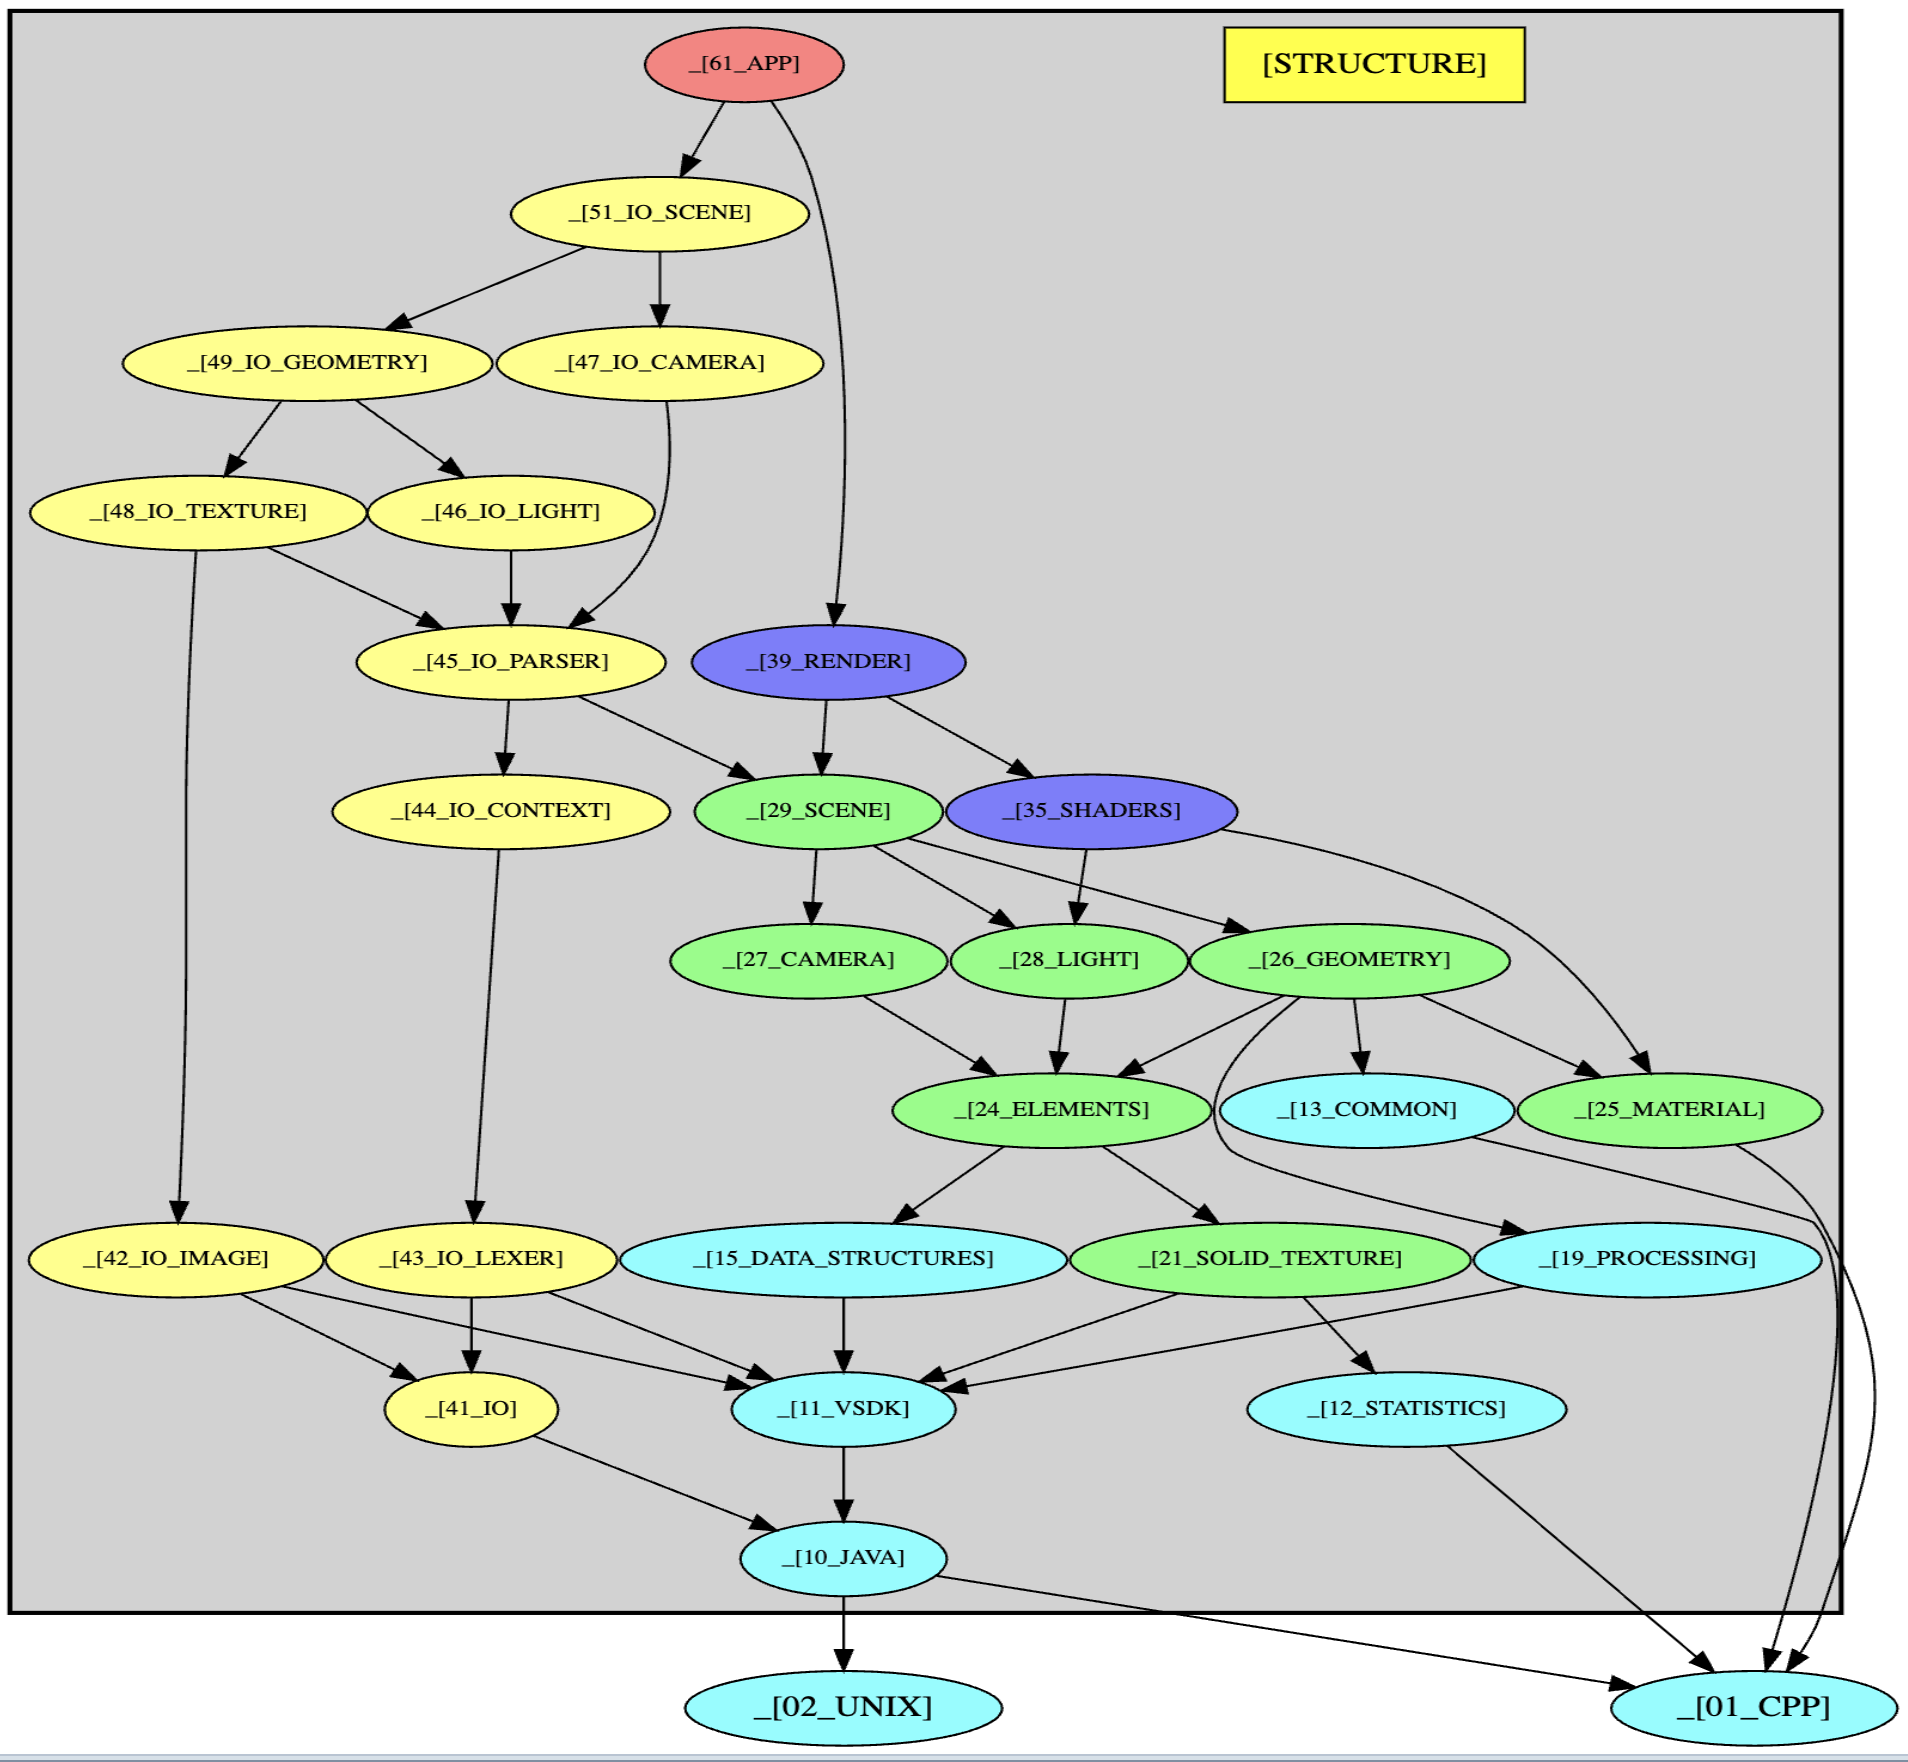
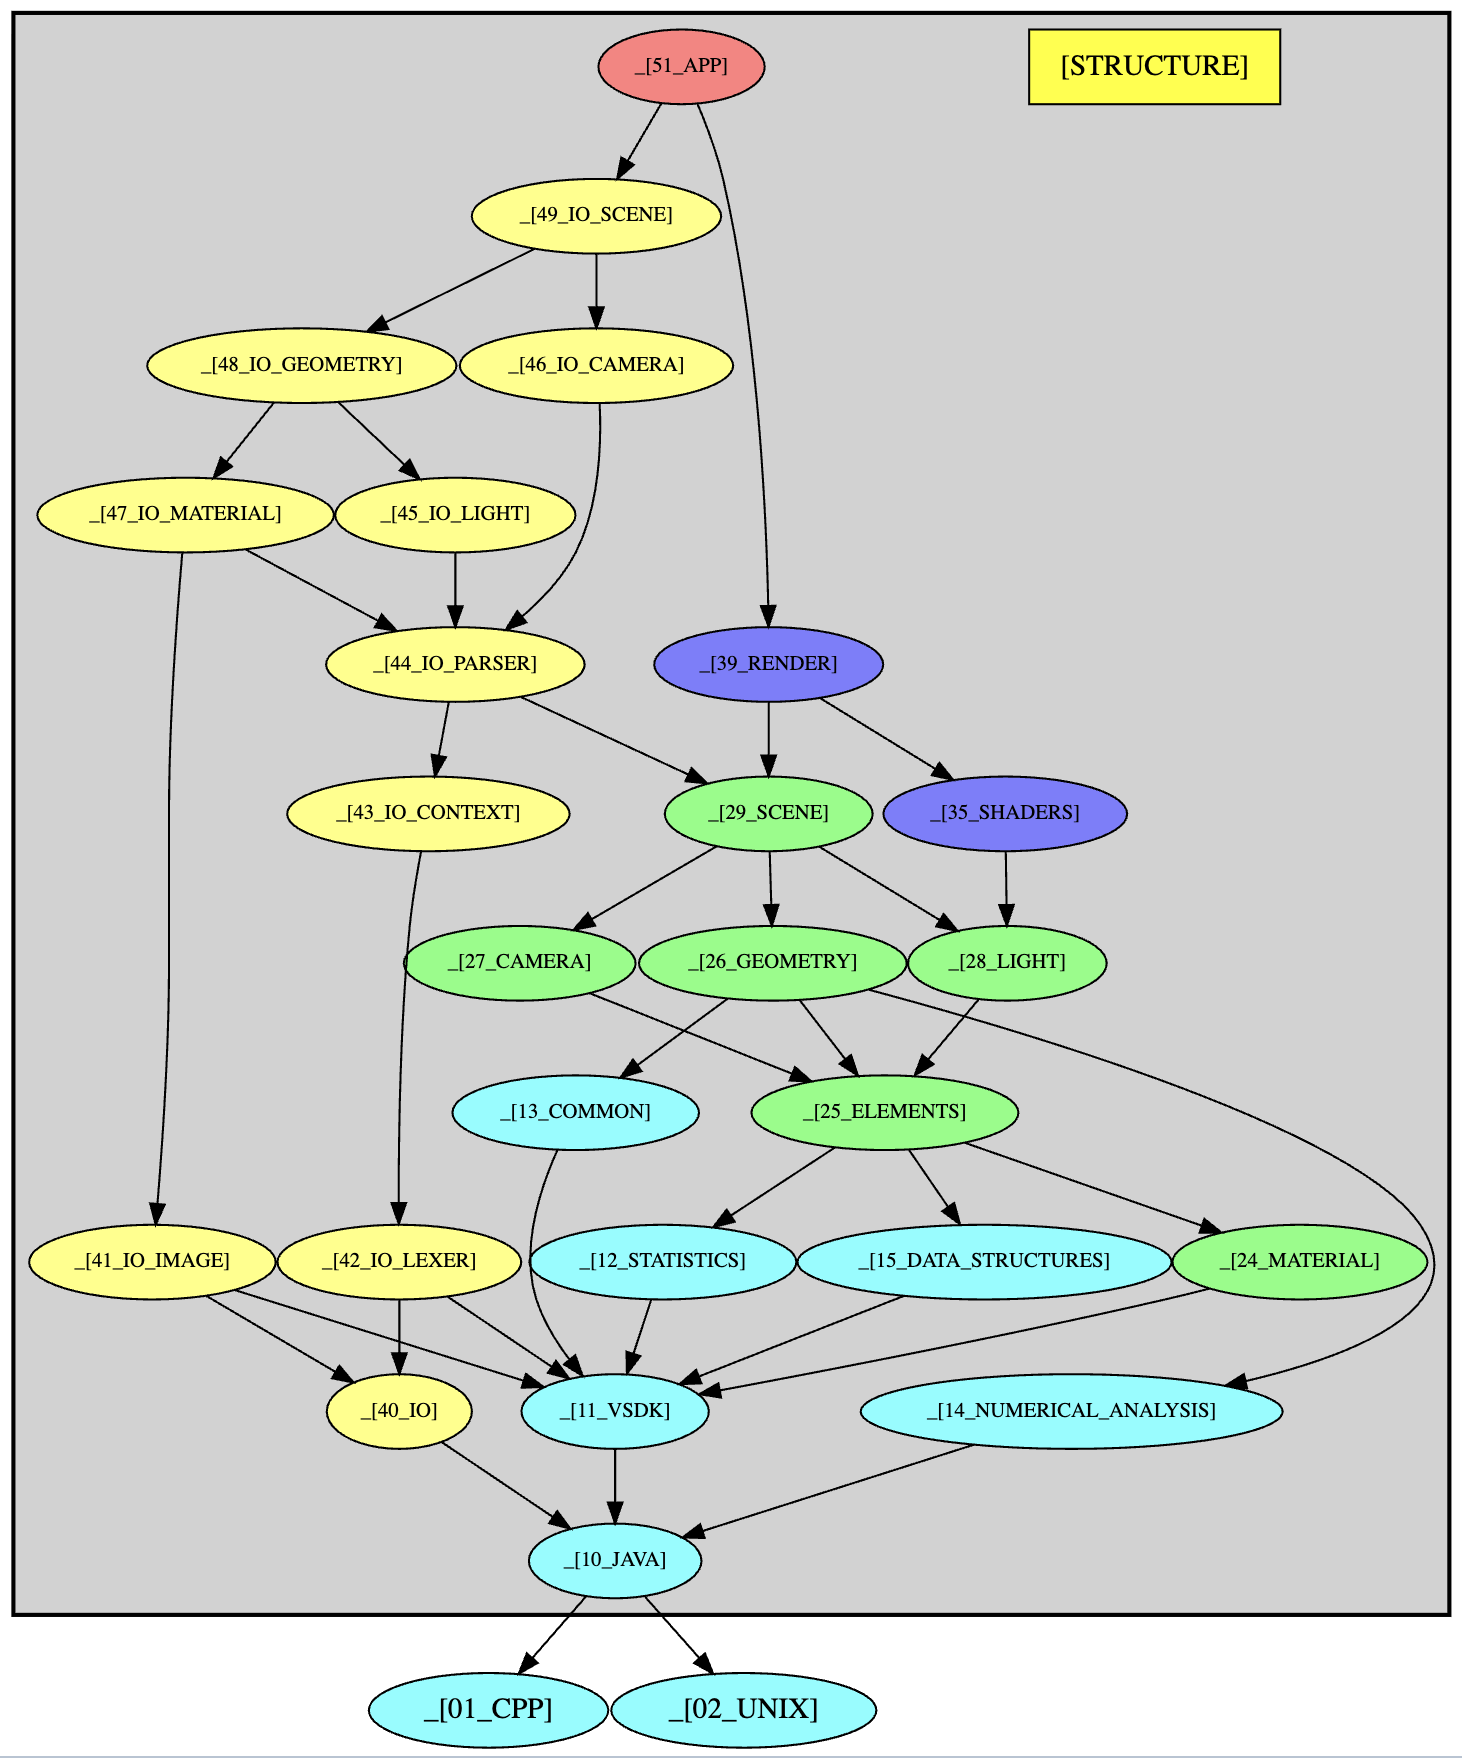
Solid textures moved to vitral library

Changed region(s): [[0.0, 0.0, 1.0, 1.0], [0.6156, 0.0, 0.8926, 0.0614]]

diff --git a/src/render/SolidTextureFixturesFacade.cpp b/src/render/SolidTextureFixturesFacade.cpp
@@ -1,9 +1,9 @@
 #include "render/SolidTextureFixturesFacade.h"
-#include "solidTexture/from2d/ImageTexture.h"
-#include "solidTexture/procedural/ColorTextureFixture.h"
+#include "vsdk/toolkit/media/solidTexture/from2d/ImageTexture.h"
+#include "vsdk/toolkit/media/solidTexture/procedural/ColorTextureFixture.h"
 #include "environment/material/SolidTextureColorNames.h"
-#include "solidTexture/procedural/ProceduralNoise.h"
-#include "solidTexture/TextureUtils.h"
+#include "vsdk/toolkit/media/solidTexture/procedural/ProceduralNoise.h"
+#include "vsdk/toolkit/media/solidTexture/TextureUtils.h"
 
 SolidTextureFixturesFacade::SolidTextureFixturesFacade(
     const ProceduralNoise *proceduralNoise, const TextureUtils *textureUtils)

diff --git a/src/io/pov/material/TextureParser.cpp b/src/io/pov/material/TextureParser.cpp
@@ -1,7 +1,7 @@
 #include "io/pov/material/TextureParser.h"
-#include "solidTexture/from2d/ControlledRGBAImageHDRUncompressed.h"
-#include "solidTexture/from2d/ImageToSolidTextureInterpolationTypes.h"
-#include "solidTexture/from2d/ImageToSolidTextureProjectionMethods.h"
+#include "vsdk/toolkit/media/solidTexture/from2d/ControlledRGBAImageHDRUncompressed.h"
+#include "vsdk/toolkit/media/solidTexture/from2d/ImageToSolidTextureInterpolationTypes.h"
+#include "vsdk/toolkit/media/solidTexture/from2d/ImageToSolidTextureProjectionMethods.h"
 #include "environment/material/SolidTextureBumpyNames.h"
 #include "environment/material/SolidTextureColorNames.h"
 #include "environment/camera/Camera.h"

diff --git a/src/render/SolidTextureFixturesFacade.h b/src/render/SolidTextureFixturesFacade.h
@@ -5,9 +5,9 @@
 #include "vsdk/toolkit/common/linealAlgebra/Matrix4x4d.h"
 #include "vsdk/toolkit/common/linealAlgebra/Vector3Dd.h"
 #include "vsdk/toolkit/media/RGBAColorPalette.h"
-#include "solidTexture/from2d/ControlledRGBAImageHDRUncompressed.h"
-#include "solidTexture/procedural/ProceduralNoise.h"
-#include "solidTexture/TextureUtils.h"
+#include "vsdk/toolkit/media/solidTexture/from2d/ControlledRGBAImageHDRUncompressed.h"
+#include "vsdk/toolkit/media/solidTexture/procedural/ProceduralNoise.h"
+#include "vsdk/toolkit/media/solidTexture/TextureUtils.h"
 
 class SolidTextureFixturesFacade {
   private:

diff --git a/src/render/shaders/BumpNormalShader.cpp b/src/render/shaders/BumpNormalShader.cpp
@@ -1,6 +1,6 @@
-#include "solidTexture/from2d/ImageTexture.h"
-#include "solidTexture/TextureUtils.h"
-#include "solidTexture/procedural/BumpTextureFixture.h"
+#include "vsdk/toolkit/media/solidTexture/from2d/ImageTexture.h"
+#include "vsdk/toolkit/media/solidTexture/TextureUtils.h"
+#include "vsdk/toolkit/media/solidTexture/procedural/BumpTextureFixture.h"
 #include "environment/material/SolidTextureBumpyNames.h"
 #include "environment/geometry/GeometryConstants.h"
 #include "render/shaders/BumpNormalShader.h"

diff --git a/src/app/PovrayApplication.cpp b/src/app/PovrayApplication.cpp
@@ -21,7 +21,7 @@
 #include "io/pov/scene/SceneParser.h"
 #include "render/RenderEngine.h"
 #include "render/RenderOutput.h"
-#include "solidTexture/TextureUtils.h"
+#include "vsdk/toolkit/media/solidTexture/TextureUtils.h"
 #include "vsdk/toolkit/common/logging/Logger.h"
 
 #include "app/ImageOutputAdapter.h"

diff --git a/src/common/statistics/Statistics.h b/src/common/statistics/Statistics.h
@@ -2,7 +2,7 @@
 #define __STATISTICS_H__
 
 #include <ctime>
-#include "common/statistics/SolidTextureStatistics.h"
+#include "vsdk/toolkit/common/statistics/SolidTextureStatistics.h"
 
 class Statistics {
   public:

diff --git a/src/environment/material/Material.h b/src/environment/material/Material.h
@@ -6,7 +6,7 @@
 #include "vsdk/toolkit/common/linealAlgebra/Matrix4x4d.h"
 #include "vsdk/toolkit/common/linealAlgebra/Vector3Dd.h"
 #include "vsdk/toolkit/media/RGBAColorPalette.h"
-#include "solidTexture/from2d/ControlledRGBAImageHDRUncompressed.h"
+#include "vsdk/toolkit/media/solidTexture/from2d/ControlledRGBAImageHDRUncompressed.h"
 #include "environment/material/SolidTextureBumpyNames.h"
 #include "environment/material/SolidTextureColorNames.h"
 

diff --git a/src/environment/scene/SimpleBodyFactory.cpp b/src/environment/scene/SimpleBodyFactory.cpp
@@ -2,7 +2,7 @@
 #include "environment/geometry/GeometryOperations.h"
 #include "environment/geometry/volume/compound/Composite.h"
 #include "environment/material/MaterialUtils.h"
-#include "solidTexture/TextureUtils.h"
+#include "vsdk/toolkit/media/solidTexture/TextureUtils.h"
 #include "vsdk/toolkit/common/logging/Logger.h"
 
 void

diff --git a/src/io/pov/scene/DeclarationParser.cpp b/src/io/pov/scene/DeclarationParser.cpp
@@ -22,7 +22,7 @@
 #include "io/pov/parser/ParseErrorReporter.h"
 #include "io/pov/parser/ParseHelpers.h"
 #include "io/pov/parser/PrimitiveParser.h"
-#include "solidTexture/TextureUtils.h"
+#include "vsdk/toolkit/media/solidTexture/TextureUtils.h"
 #include "vsdk/toolkit/common/linealAlgebra/Vector3Dd.h"
 
 void

diff --git a/src/render/RayShaderPipeline.cpp b/src/render/RayShaderPipeline.cpp
@@ -1,6 +1,6 @@
 #include "java/util/ArrayList.txx"
 #include "vsdk/toolkit/common/logging/Logger.h"
-#include "solidTexture/from2d/ImageTexture.h"
+#include "vsdk/toolkit/media/solidTexture/from2d/ImageTexture.h"
 #include "environment/material/SolidTextureColorNames.h"
 #include "environment/geometry/GeometryConstants.h"
 #include "environment/geometry/GeometryOperations.h"

diff --git a/src/render/RenderEngine.cpp b/src/render/RenderEngine.cpp
@@ -19,7 +19,7 @@ This module implements the main raytracing loop.
 #include "common/statistics/Statistics.h"
 #include "common/RenderRuntimeState.h"
 #include "environment/material/RendererConfiguration.h"
-#include "solidTexture/TextureUtils.h"
+#include "vsdk/toolkit/media/solidTexture/TextureUtils.h"
 #include "render/shaders/TraceService.h"
 #include "render/ColorOperations.h"
 #include "render/RayShaderPipeline.h"